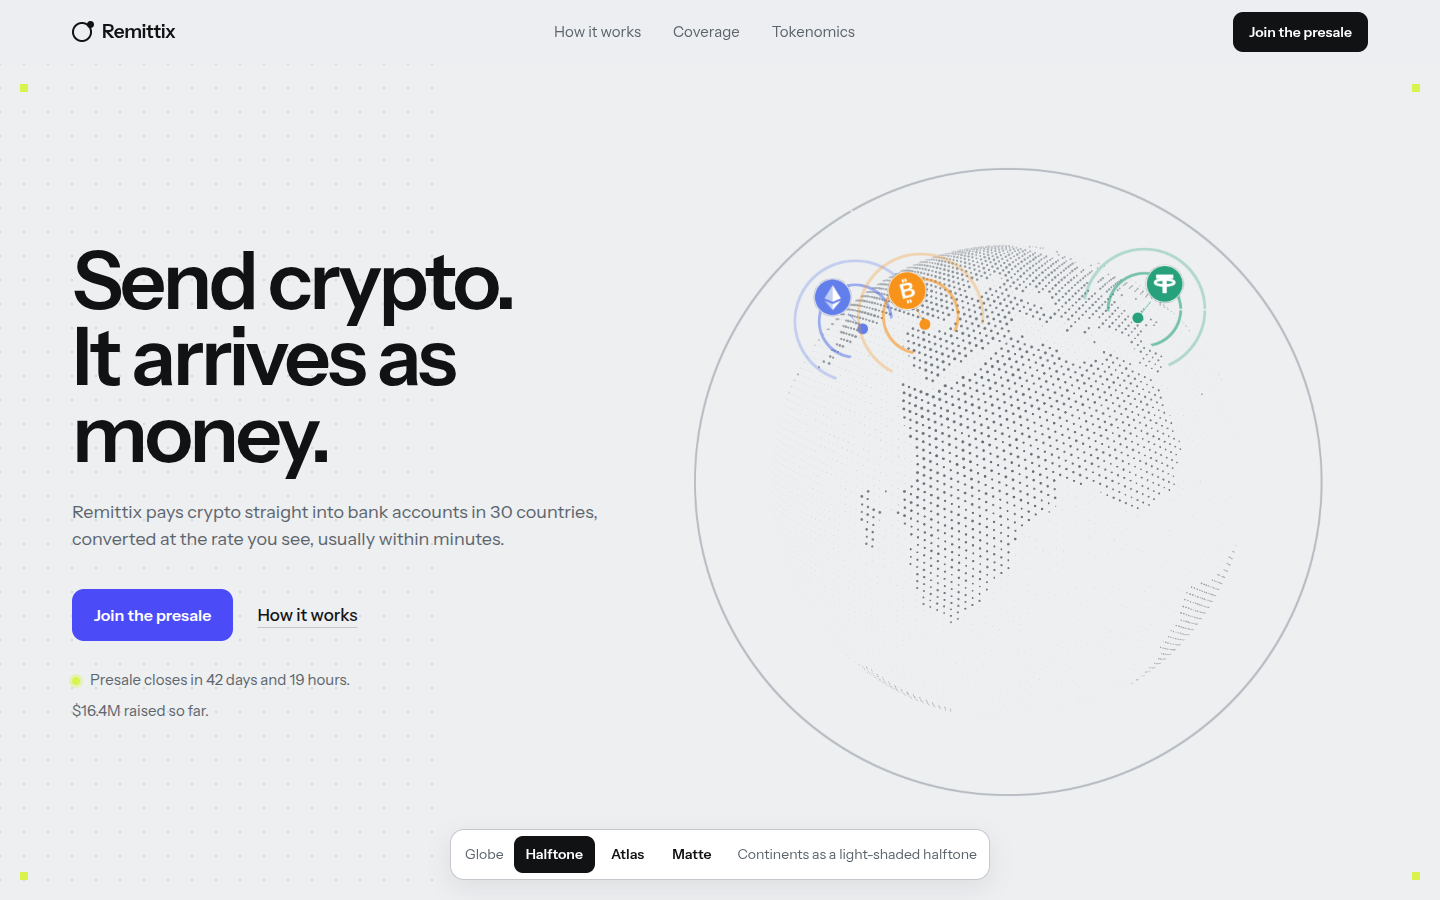
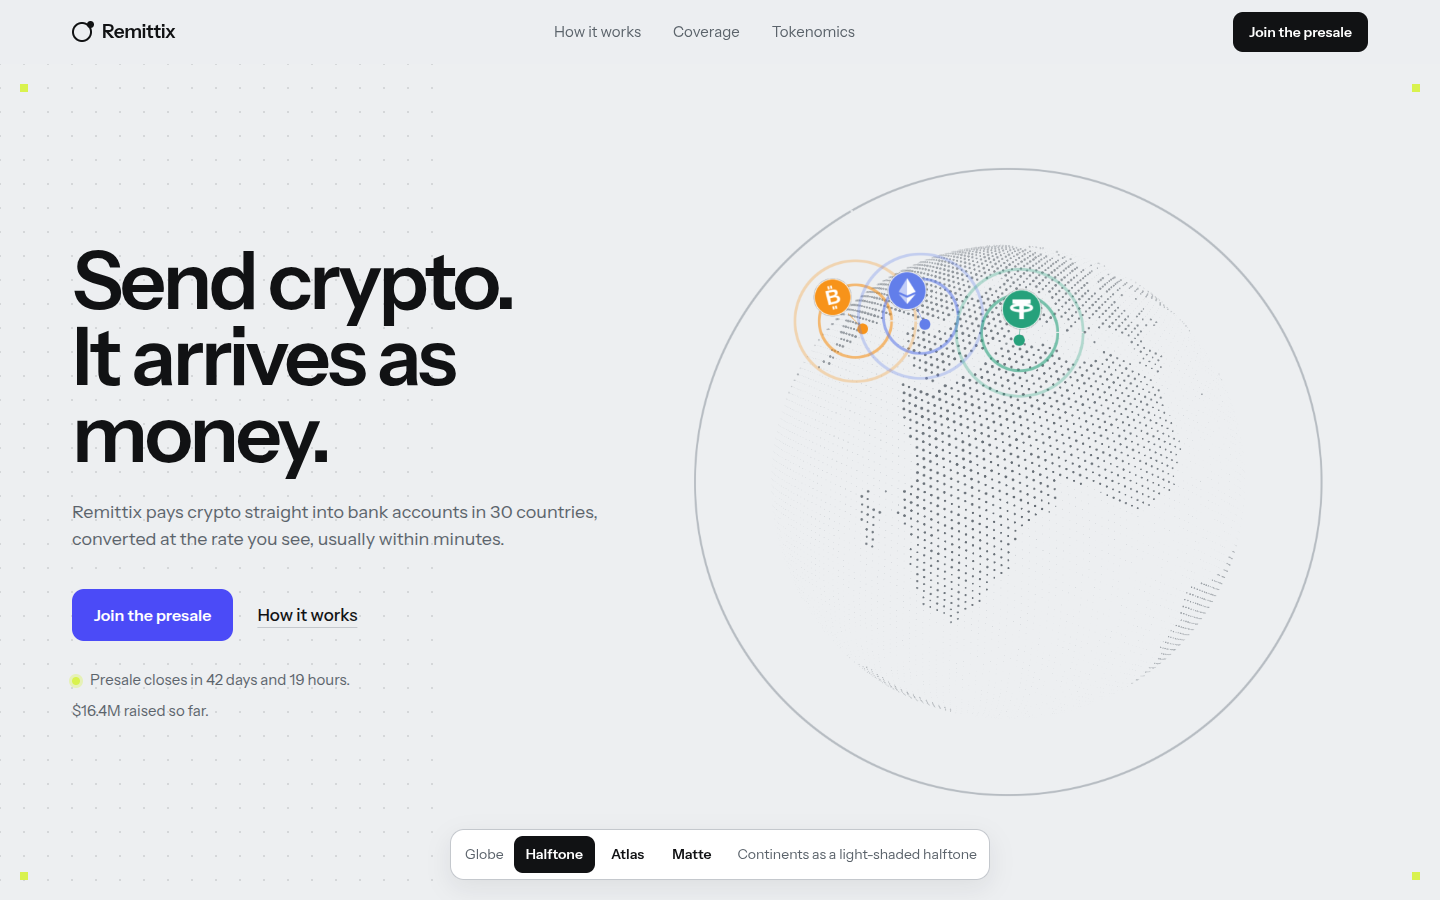
Halo in #DADEE2 with a travelling highlight after the sweep
Claude-Session: https://claude.ai/code/session_01HEdBujhmZjJYweLG8veQcL

Changed region(s): [[0.5625, 0.28, 0.8438, 0.4356]]

diff --git a/src/components/HeroPlanet/PlanetScene.ts b/src/components/HeroPlanet/PlanetScene.ts
@@ -295,6 +295,9 @@ export class PlanetScene {
           uWidth: { value: 0.002 },
           uSweep: { value: 0 },
           uStart: { value: C.haloStartDeg * DEG },
+          uPulse: { value: 0 },
+          uPulseLen: { value: 0 },
+          uPulseColor: { value: new THREE.Color(C.haloPulseColor) },
         },
         { depthTest: false },
       );
@@ -312,6 +315,9 @@ export class PlanetScene {
           uWidth: { value: 0.003 },
           uSweep: { value: 1 },
           uStart: { value: 0 },
+          uPulse: { value: 0 },
+          uPulseLen: { value: 0 },
+          uPulseColor: { value: new THREE.Color(C.outlineColor) },
         },
         { depthTest: false },
       );
@@ -857,6 +863,12 @@ export class PlanetScene {
     const centerViewZ = this.tmpV3
       .setFromMatrixPosition(this.root.matrixWorld)
       .applyMatrix4(this.camera.matrixWorldInverse).z;
+    if (this.halo && C.haloLoop) {
+      // The loop starts as the sweep lands: the highlight departs from the sweep's end point.
+      const u = this.halo.material.uniforms;
+      u.uPulseLen.value = C.haloPulseLength * Math.max(0, (this.state.halo - 0.85) / 0.15);
+      u.uPulse.value = (elapsed / C.haloLoopPeriodSec) % 1;
+    }
     if (this.arcs) {
       this.arcs.material.uniforms.uCenterViewZ.value = centerViewZ;
       this.arcs.material.uniforms.uTime.value = elapsed;

diff --git a/src/components/HeroPlanet/config.ts b/src/components/HeroPlanet/config.ts
@@ -86,11 +86,15 @@ export const PLANET_CONFIG = {
   // ---------- Halo: a hairline circle around the sphere that sweeps in on load ----------
   halo: false,
   haloRadius: 1.34,         // × sphere radius
-  haloColor: '#A9AFB6',
-  haloOpacity: 0.8,
+  haloColor: '#DADEE2',
+  haloOpacity: 1,
   haloWidthPx: 1,
   haloStartDeg: 120,        // where the sweep begins (0 = right, counter-clockwise)
   haloSweepSec: 1.6,
+  haloLoop: true,           // after the sweep, a highlight keeps travelling round the circle
+  haloLoopPeriodSec: 11,
+  haloPulseColor: '#8A9098',
+  haloPulseLength: 0.14,    // fraction of the circle
 
   // ---------- Silhouette outline + contact shadow ----------
   outline: false,
